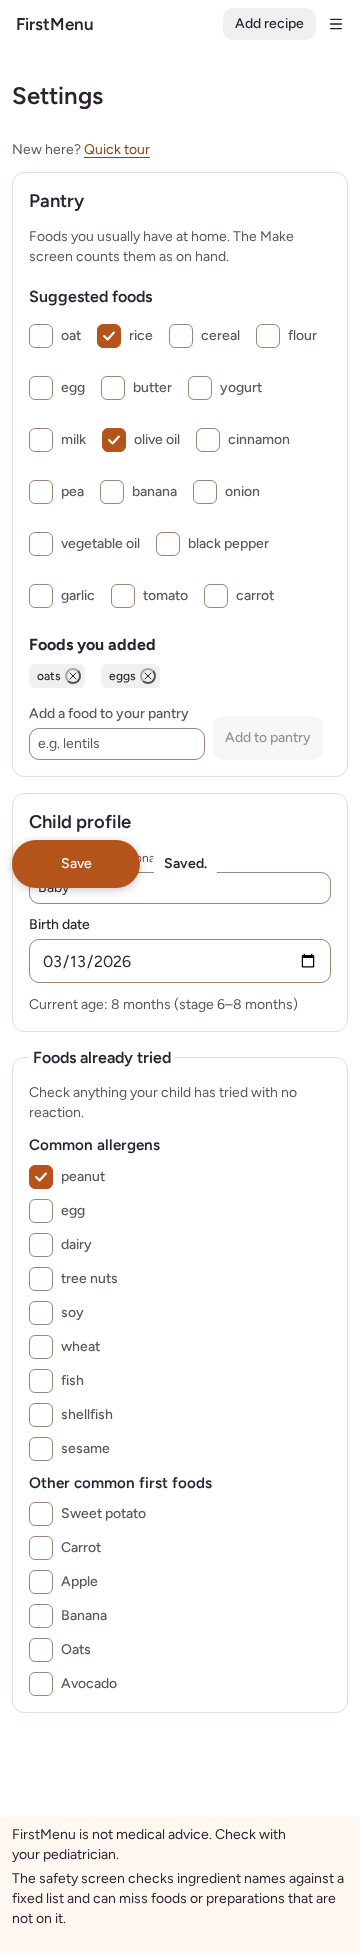
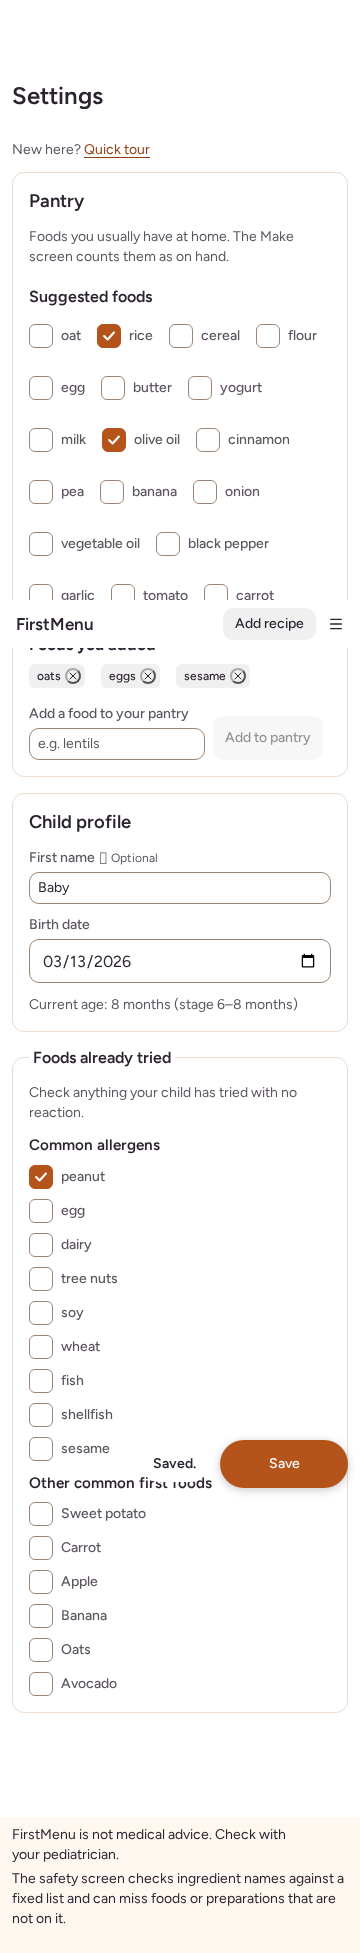
fix: review round 1 on Sources and Settings (storage line, label colour, Save pill, tests)

diff --git a/src/ui/pages/SourcesSettingsDesign.test.tsx b/src/ui/pages/SourcesSettingsDesign.test.tsx
@@ -160,6 +160,13 @@ describe('Sources: jump list and grouping', () => {
       .getByRole('heading', { name: 'Safety rules', level: 2 })
       .closest('section') as HTMLElement;
     expect(band.className).toMatch(/band/);
+    // Every level-2 section is a band with its own way back to the top.
+    const sections = screen
+      .getAllByRole('heading', { level: 2 })
+      .map((h) => h.closest('section') as HTMLElement)
+      .filter((sec) => sec !== null && within(sec).queryByRole('link', { name: 'Back to top' }));
+    expect(sections.length).toBeGreaterThanOrEqual(5);
+    for (const sec of sections) expect(sec.className).toMatch(/band/);
     expect(within(band).getByRole('link', { name: 'Back to top' })).toBeInTheDocument();
   });
 
@@ -175,8 +182,13 @@ describe('Sources and Settings network use', () => {
     const network = spyOnNetwork();
     renderAt('/sources');
     fireEvent.click(screen.getByRole('link', { name: /^Recipe sources/ }));
+    await user.click(screen.getAllByRole('link', { name: 'Back to top' })[0]);
     cleanup();
     renderAt('/settings');
+    const first = screen.getByRole('textbox', { name: /First name/ });
+    await user.clear(first);
+    await user.type(first, 'Pip');
+    await user.click(screen.getByRole('checkbox', { name: 'rice' }));
     await user.click(screen.getByRole('button', { name: 'Save' }));
     network.expectNoNetwork();
   });

diff --git a/src/ui/pages/recipeView.test.ts b/src/ui/pages/recipeView.test.ts
@@ -1,5 +1,5 @@
 import { describe, expect, it } from 'vitest';
-import { RECIPES_PAGE_SIZE, collapseTags, ghostReason, matchesSearch, pageStatusText, recipeView } from './recipeView';
+import { RECIPES_PAGE_SIZE, collapseTags, doorBadgeText, ghostReason, matchesSearch, pageStatusText, recipeView } from './recipeView';
 import { defaultState } from '../../domain/storage';
 import type { Recipe } from '../../domain/types';
 
@@ -88,5 +88,15 @@ describe('card tags and search', () => {
     expect(matchesSearch(r, '  ')).toBe(true);
     expect(matchesSearch(r, 'MASH oats')).toBe(true);
     expect(matchesSearch(r, 'mash banana')).toBe(false);
+  });
+});
+
+describe('door badge text (v1 Req 7.3)', () => {
+  it('names every untried food, however many, instead of shortening the list', () => {
+    const labels = ['wheat', 'oat', 'banana', 'dairy', 'egg', 'cinnamon', 'vanilla extract'];
+    const text = doorBadgeText(labels);
+    expect(text).toBe('New food: wheat, oat, banana, dairy, egg, cinnamon, vanilla extract');
+    for (const label of labels) expect(text).toContain(label);
+    expect(text).not.toMatch(/more/);
   });
 });

diff --git a/src/ui/pages/RecipeDetail.test.tsx b/src/ui/pages/RecipeDetail.test.tsx
@@ -147,6 +147,20 @@ describe('RecipeDetail page', () => {
     expect(screen.getByText(NOT_MEDICAL_ADVICE)).toBeInTheDocument();
   });
 
+  it('names the publisher once on the source section, not again on the storage line', () => {
+    renderDetail('b-carrots-and-apples', seedState(8));
+    const section = screen.getByRole('heading', { name: 'Source' }).closest('section') as HTMLElement;
+    const publisher = 'Minnesota Department of Health';
+    const text = section.textContent ?? '';
+    expect(text.split(publisher).length - 1).toBe(1);
+    expect(text).toMatch(/Retrieved /);
+    const storage = within(section).getByRole('link', { name: 'see the storage page' });
+    expect(storage).toHaveAttribute(
+      'href',
+      'https://www.health.state.mn.us/people/wic/recipes/babyfood.html',
+    );
+  });
+
   it('shows a per-ingredient prep reminder for an ingredient that triggers one', () => {
     // carrots + apple both trigger the hard-produce "Cook until soft" reminder.
     renderDetail('b-carrots-and-apples', seedState(8));

diff --git a/src/ui/pages/RecipeDetail.tsx b/src/ui/pages/RecipeDetail.tsx
@@ -456,10 +456,10 @@ export default function RecipeDetail() {
                   target="_blank"
                   rel="noopener noreferrer"
                 >
-                  {source.publisher}
+                  see the storage page
                 </ExternalLink>
               ) : (
-                source.publisher
+                'from the source above'
               )}
             </p>
           )}

diff --git a/src/ui/pages/Settings.module.css b/src/ui/pages/Settings.module.css
@@ -21,6 +21,7 @@
 .label {
   font-weight: 500;
   font-size: 0.875rem;
+  color: var(--color-text-secondary);
 }
 
 /* Native date input styled to match the Astryx text input. */
@@ -111,6 +112,8 @@
   align-items: center;
   gap: 12px;
   padding: 12px 0;
+  /* Pill on the right, Saved. to its left; tab order stays Save last. */
+  flex-direction: row-reverse;
   pointer-events: none;
 }
 
